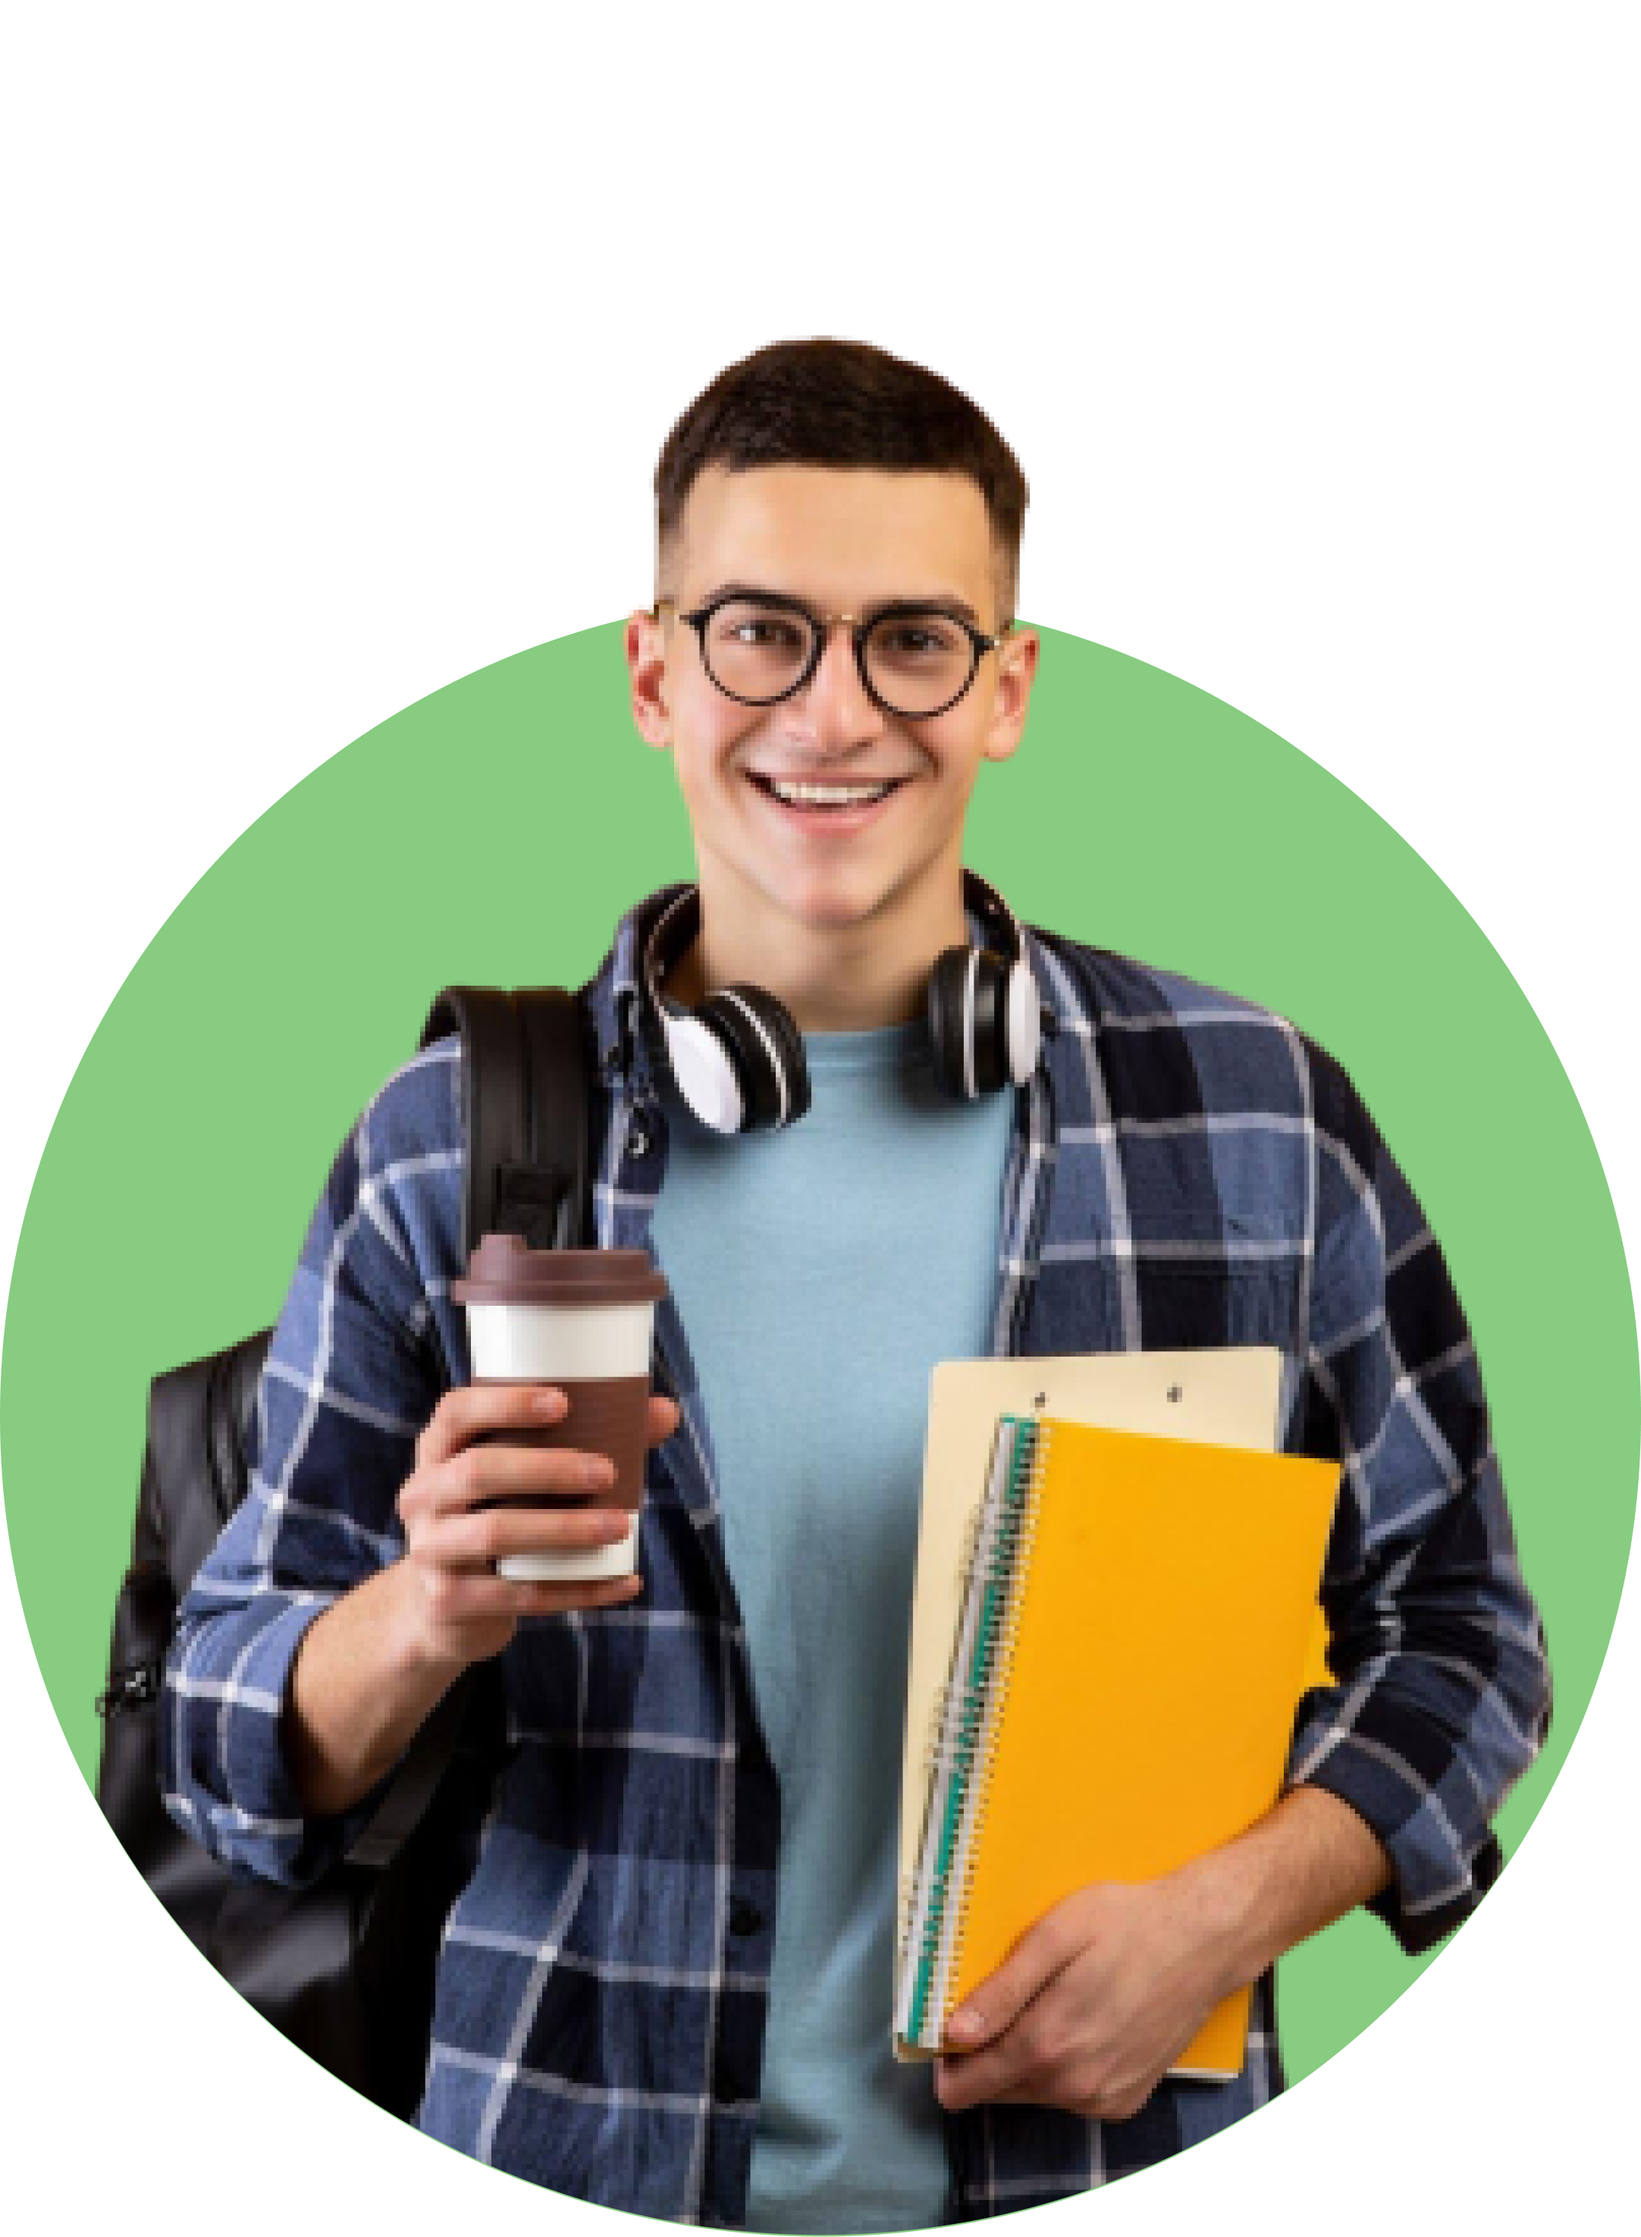
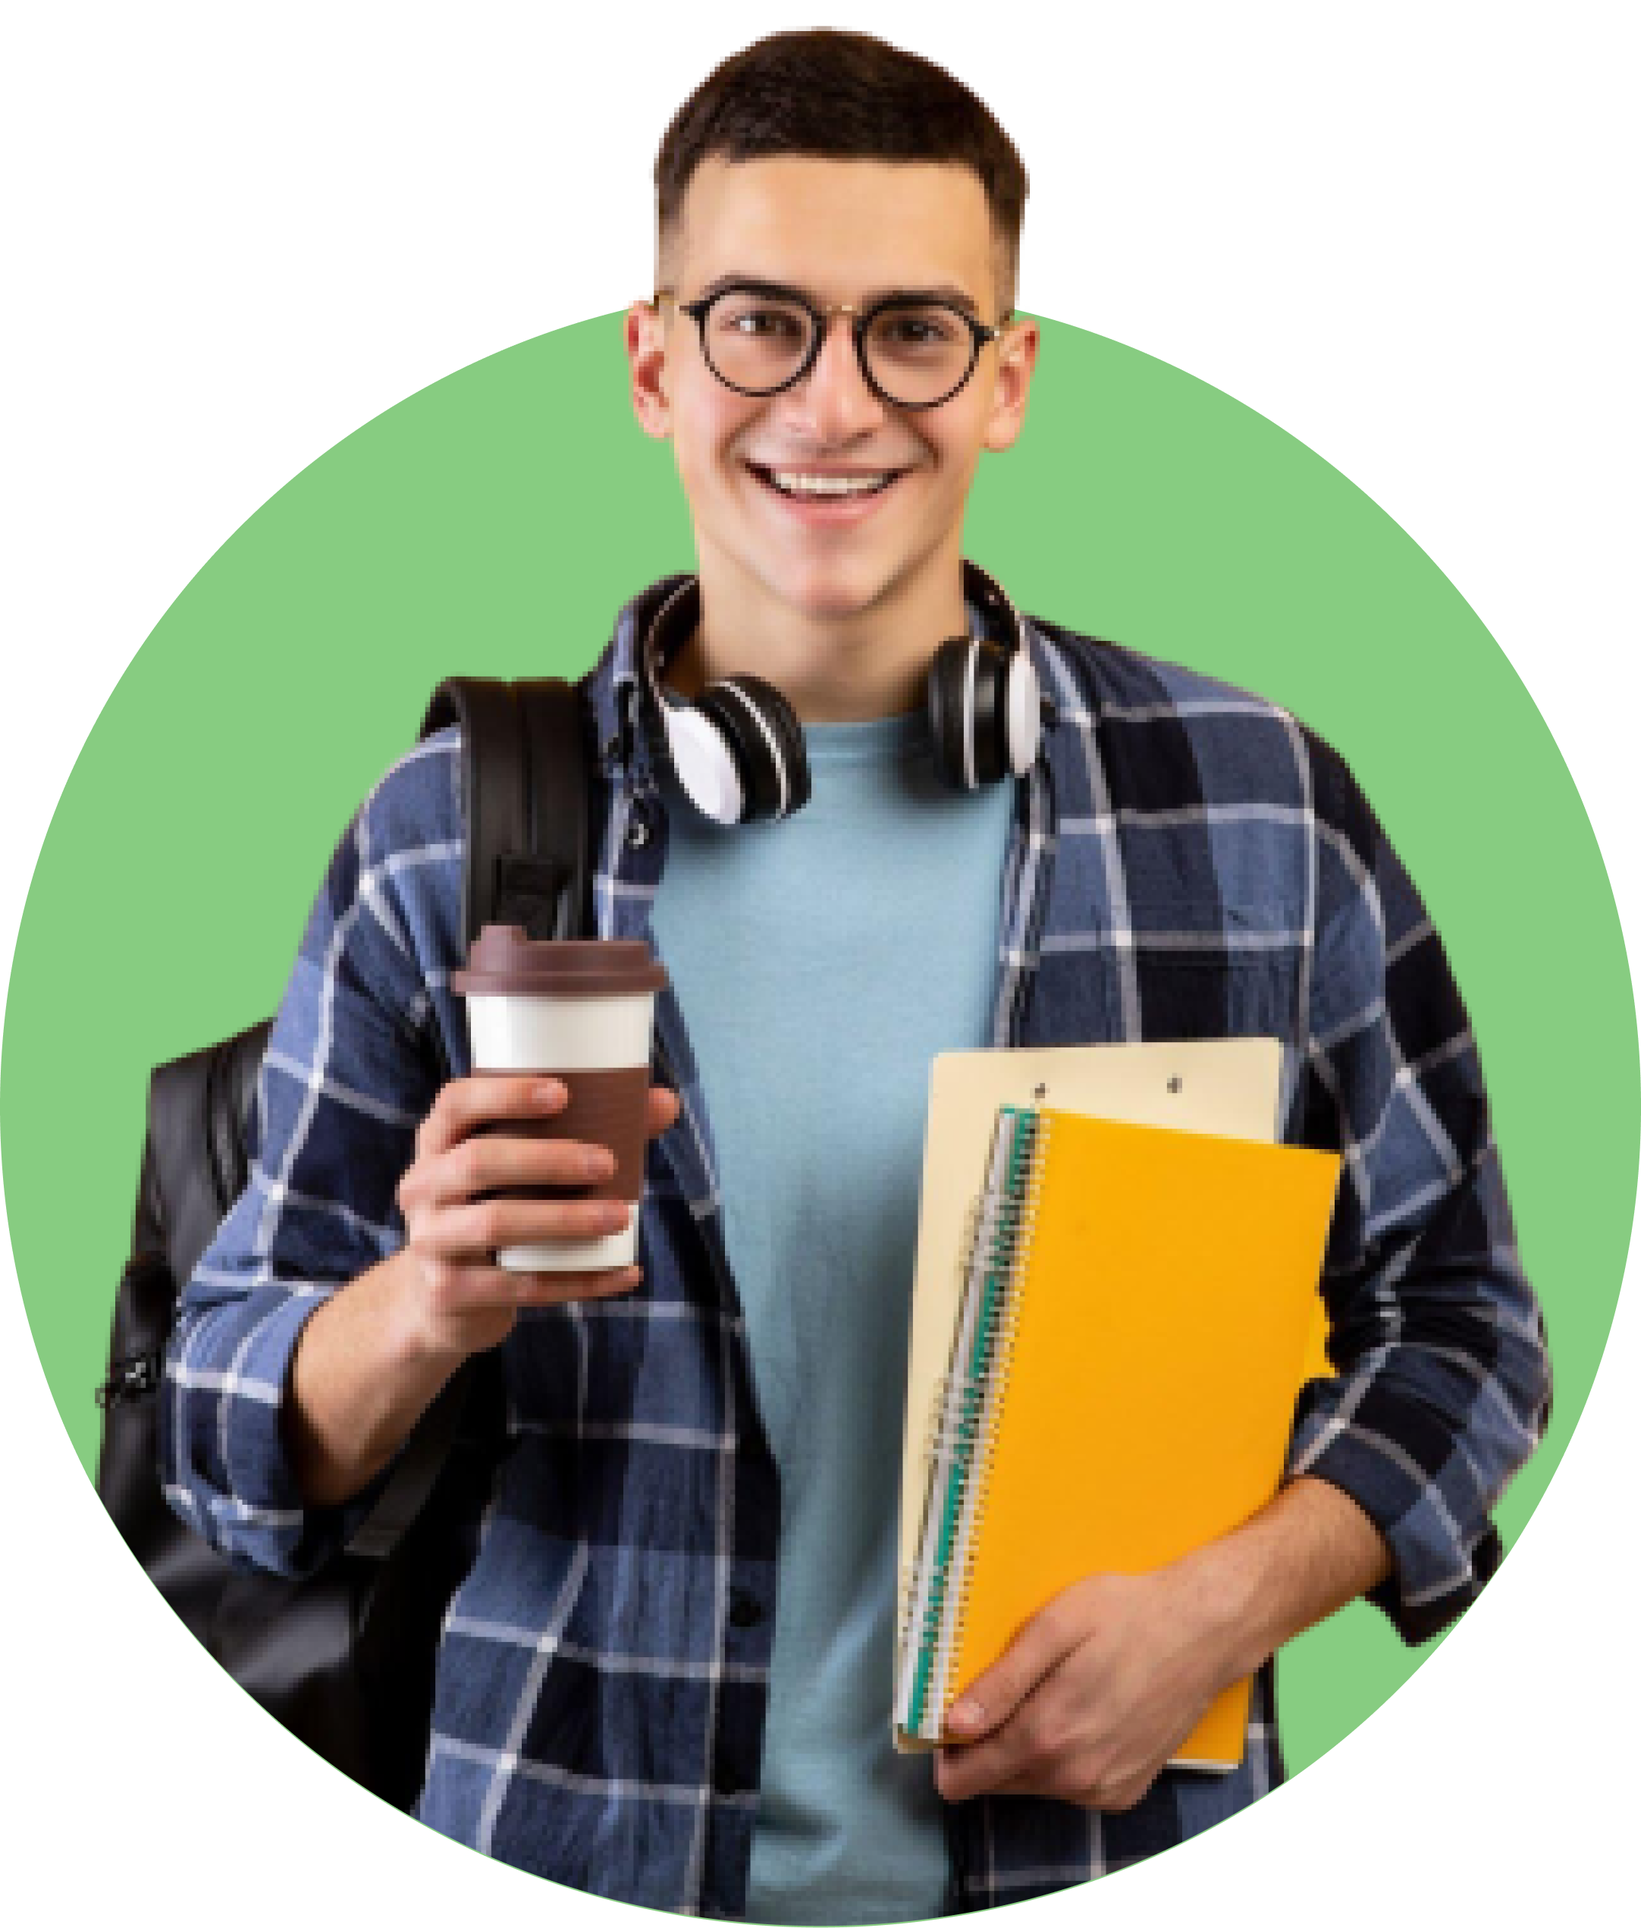
navbar updated

diff --git a/src/components/Navbar/Navbar.jsx b/src/components/Navbar/Navbar.jsx
@@ -1,78 +1,93 @@
-import React, { useState } from 'react';
-import { Link } from 'react-router-dom';
-import logo from "../../assets/logo.png"
-import './Navbar.css'
+import React, { useState } from "react";
 
 const Navbar = () => {
-    const [isOpen, setIsOpen] = useState(false);
+    const [isSidebarOpen, setSidebarOpen] = useState(false);
 
-    const navItems = <>
-        <div className="nav-items-list font-medium">
-            <Link className="nav-items">
-                Home
-            </Link>
-            <Link className="nav-items">
-                About
-            </Link>
-            <Link className="nav-items">
-                Schedules
-            </Link>
-            <Link className="nav-items">
-                Membership
-            </Link>
-            <Link className="nav-items">
-                Pricing
-            </Link>
-        </div>
+    const toggleSidebar = () => {
+        setSidebarOpen(!isSidebarOpen);
+    };
 
-        <div className="nav-items-list">
-            <Link className="nav-items text-[#7D7D7D]">
-                offers
-            </Link>
-            <Link className="nav-items">
-                <button className='primary-button'>
-                    courses
-                </button>
-            </Link>
-        </div>
-    </>
+    const navItems = ["Home", "About", "Schedules", "Membership", "Pricing"];
 
     return (
-        <nav x-data={{ isOpen }} className="relative bg-white">
-            <div className="px-6  mx-auto md:flex">
-                <div className="flex items-center justify-between">
-                    <Link>
-                        <img className="w-full h-12" src={logo} alt="logo" />
-                    </Link>
-
-
-                    <div className="flex lg:hidden">
+        <nav className="bg-white p-4">
+            <div className="container mx-auto flex justify-between items-center">
+                {/* Navbar items on the left side */}
+                <div className="flex items-center space-x-4">
+                    {/* Hamburger menu for small screens */}
+                    <div className="md:hidden">
                         <button
-                            onClick={() => setIsOpen(!isOpen)}
                             type="button"
-                            className="text-gray-500  hover:text-gray-600  focus:outline-none focus:text-gray-600 "
-                            aria-label="toggle menu"
+                            className="text-gray-700 focus:outline-none"
+                            onClick={toggleSidebar}
                         >
-                            {!isOpen ? (
-                                <svg xmlns="http://www.w3.org/2000/svg" className="w-6 h-6" fill="none" viewBox="0 0 24 24" stroke="currentColor" strokeWidth="2">
-                                    <path strokeLinecap="round" strokeLinejoin="round" d="M4 8h16M4 16h16" />
-                                </svg>
-                            ) : (
-                                <svg xmlns="http://www.w3.org/2000/svg" className="w-6 h-6" fill="none" viewBox="0 0 24 24" stroke="currentColor" strokeWidth="2">
-                                    <path strokeLinecap="round" strokeLinejoin="round" d="M6 18L18 6M6 6l12 12" />
-                                </svg>
-                            )}
+                            <svg
+                                className="h-6 w-6"
+                                fill="none"
+                                strokeLinecap="round"
+                                strokeLinejoin="round"
+                                strokeWidth="2"
+                                viewBox="0 0 24 24"
+                                stroke="currentColor"
+                            >
+                                <path d="M4 6h16M4 12h16m-7 6h7"></path>
+                            </svg>
                         </button>
+                    </div>
+
+                    {/* Navbar items for medium and large screens */}
+                    <div className="hidden md:flex space-x-4">
+                        {navItems.map((item, index) => (
+                            <div key={index} className="text-gray-800 hover:text-gray-900">
+                                {item}
+                            </div>
+                        ))}
                     </div>
                 </div>
 
-                <div
-                    className={`absolute inset-x-0 z-20 w-full px-6 py-4 transition-all duration-300 ease-in-out bg-white  md:mt-0 md:p-0 md:top-0 md:relative md:opacity-100 ${isOpen ? 'translate-x-0 opacity-100 ' : 'opacity-0 -translate-x-full'} md:translate-x-0 md:flex md:items-center md:justify-between`}
-                >
-                    {
-                        navItems
-                    }
+                {/* Buttons on the right side */}
+                <div className="flex items-center space-x-4">
+                    <button className="text-gray-600">Offers</button>
+                    <button className="my-btn">
+                        Courses
+                    </button>
                 </div>
+
+                {/* Sidebar for small screens */}
+                {isSidebarOpen && (
+                    <div className="md:hidden fixed inset-0 bg-[#F27A44] z-50">
+                        <div className="flex justify-end p-4">
+                            <button
+                                type="button"
+                                className="text-white focus:outline-none"
+                                onClick={toggleSidebar}
+                            >
+                                <svg
+                                    className="h-6 w-6"
+                                    fill="none"
+                                    strokeLinecap="round"
+                                    strokeLinejoin="round"
+                                    strokeWidth="2"
+                                    viewBox="0 0 24 24"
+                                    stroke="currentColor"
+                                >
+                                    <path d="M6 18L18 6M6 6l12 12"></path>
+                                </svg>
+                            </button>
+                        </div>
+                        <ul className="flex flex-col items-start p-4 space-y-4">
+                            {navItems.map((item, index) => (
+                                <li
+                                    key={index}
+                                    className="text-white hover:text-gray-300 cursor-pointer"
+                                    onClick={toggleSidebar}
+                                >
+                                    {item}
+                                </li>
+                            ))}
+                        </ul>
+                    </div>
+                )}
             </div>
         </nav>
     );

diff --git a/src/Homepage/Banner/Banner.jsx b/src/Homepage/Banner/Banner.jsx
@@ -3,24 +3,26 @@ import bannerImage from '../../assets/Images/banner.png'
 
 const Banner = () => {
     return (
-        <section className="container px-6 py-16 mx-auto inter">
-            <div className="grid md:grid-cols-2 items-center">
-                <div className="w-full lg:w-1/2">
-                    <div className="lg:max-w-7xl">
-                        <p className='mb-2 font-semibold text-xl'>Discover the beauty of the tropics</p>
-                        <div className='space-y-12 py-6 poppins '>
-                            <h1 className="font-bold black-text-color text-3xl lg:text-[80px]">Tropical</h1>
-                            <h1 className="font-bold black-text-color text-3xl lg:text-[80px]">Destinations</h1>
-                            <h2 className='font-medium black-text-color text-3xl lg:text-[80px]'>For Student</h2>
+        <section className="container px-6 py-16 mx-auto inter max-h-screen  mb-10 lg:mb-40">
+            <div className="md:flex items-center justify-center md:gap-x-12 lg:gap-x-24">
+
+                <div className="w-full md:w-1/2 order-last md:order-first">
+                    <div className="md:max-w-xl">
+                        <p className='mb-1 font-semibold text-sm md:text-xl'>Discover the beauty of the tropics</p>
+                        <div className='space-y-2 lg:space-y-6 py-4 md:py-6 poppins'>
+                            <h1 className="font-bold black-text-color text-4xl md:text-5xl lg:text-[80px]">Tropical</h1>
+                            <h1 className="font-bold black-text-color text-4xl md:text-5xl lg:text-[80px]">Destinations</h1>
+                            <h2 className='font-medium black-text-color text-4xl md:text-5xl lg:text-[80px]'>For Student</h2>
                         </div>
-                        <p className="my-4 lg:my-12 text-gray-600 ">Lorem ipsum dolor sit amet consectetur. Sit mattis donec mi bibendum integer rutrum nisi. A nec nisl vitae </p>
+                        <p className="my-4 lg:my-12 text-gray-600 text-sm md:text-base">Lorem ipsum dolor sit amet consectetur. Sit mattis donec mi bibendum integer rutrum nisi. A nec nisl vitae </p>
                         <button className='bg-[#F27A44] text-white px-12 py-4 rounded-[30px] uppercase'>
                             Sign Up
                         </button>
                     </div>
                 </div>
-                <div className="flex items-center justify-center w-full mt-6 lg:mt-0 lg:w-1/2">
-                    <img className="w-full h-full lg:max-w-3xl" src={bannerImage} alt="bannerImg" />
+
+                <div className="flex items-center justify-center w-full mt-6 lg:mt-0 md:w-1/2 order-first md:order-last">
+                    <img className="w-full h-full md:max-w-xl" src={bannerImage} alt="bannerImg" />
                 </div>
             </div>
         </section >

diff --git a/src/index.css b/src/index.css
@@ -4,22 +4,28 @@
 
 
 /* fonts */
-.inter{
-@apply font-sansSerif1;
+.inter {
+    @apply font-sansSerif1;
 }
-.poppins{
-@apply font-sansSerif2;
+
+.poppins {
+    @apply font-sansSerif2;
 }
 
 /* colors */
 .primary-color {
     @apply bg-[#F27A44];
 }
-.black-text-color{
+
+.black-text-color {
     @apply text-[#1F2027]
 }
 
 /* buttons */
-.primary-button{
+.primary-button {
+    @apply bg-[#F27A44] text-white px-8 py-4 rounded-[30px]
+}
+
+.my-btn {
     @apply bg-[#F27A44] text-white px-8 py-4 rounded-[30px]
 }
